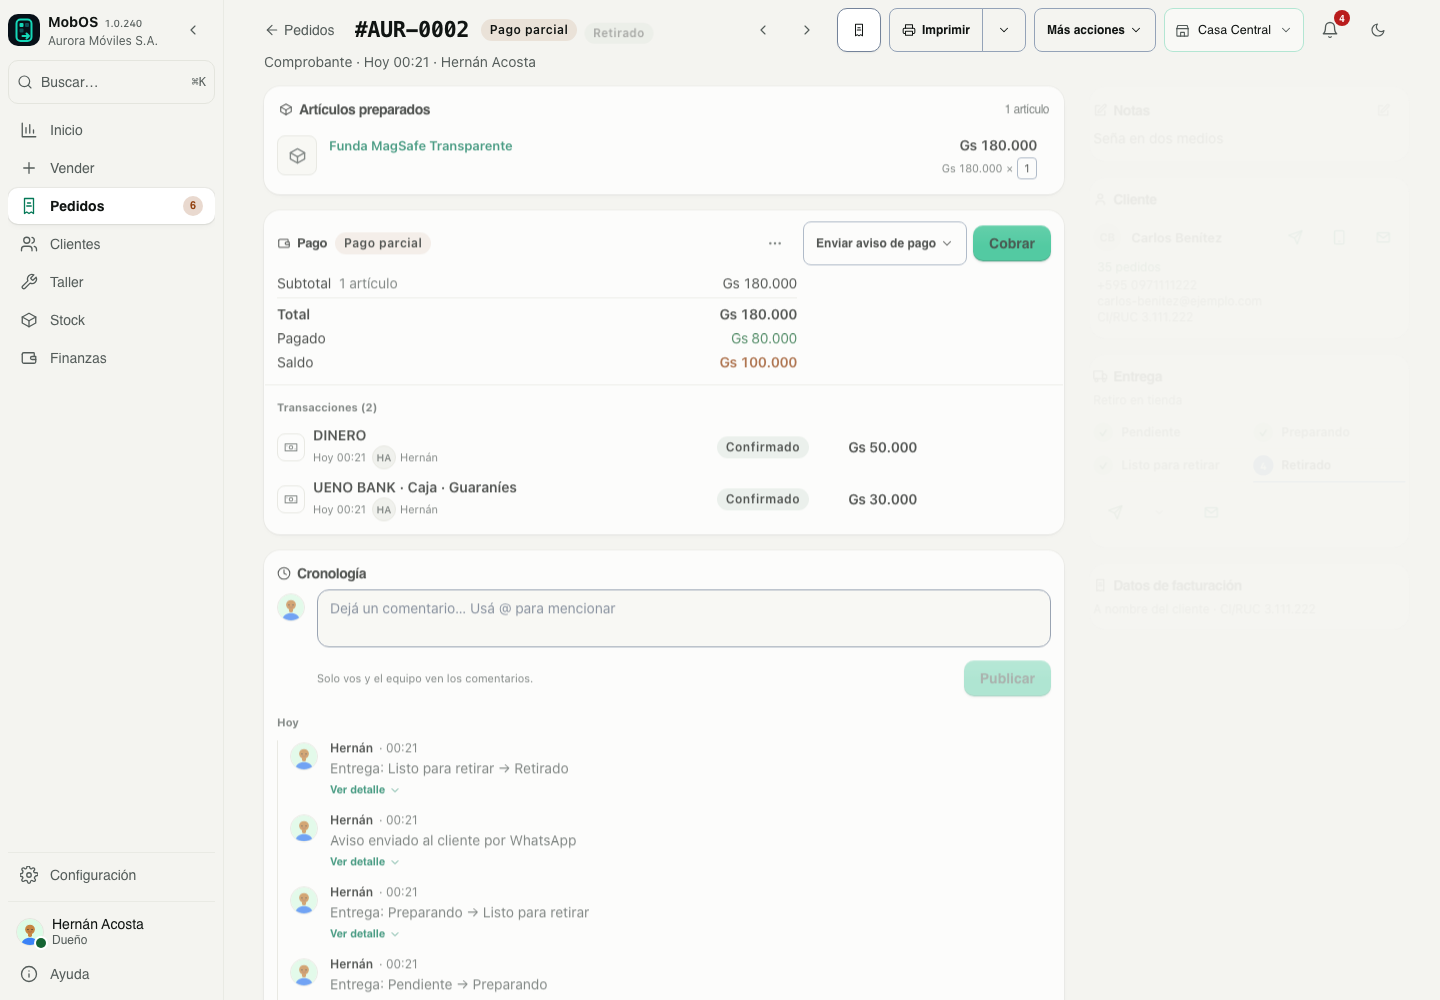
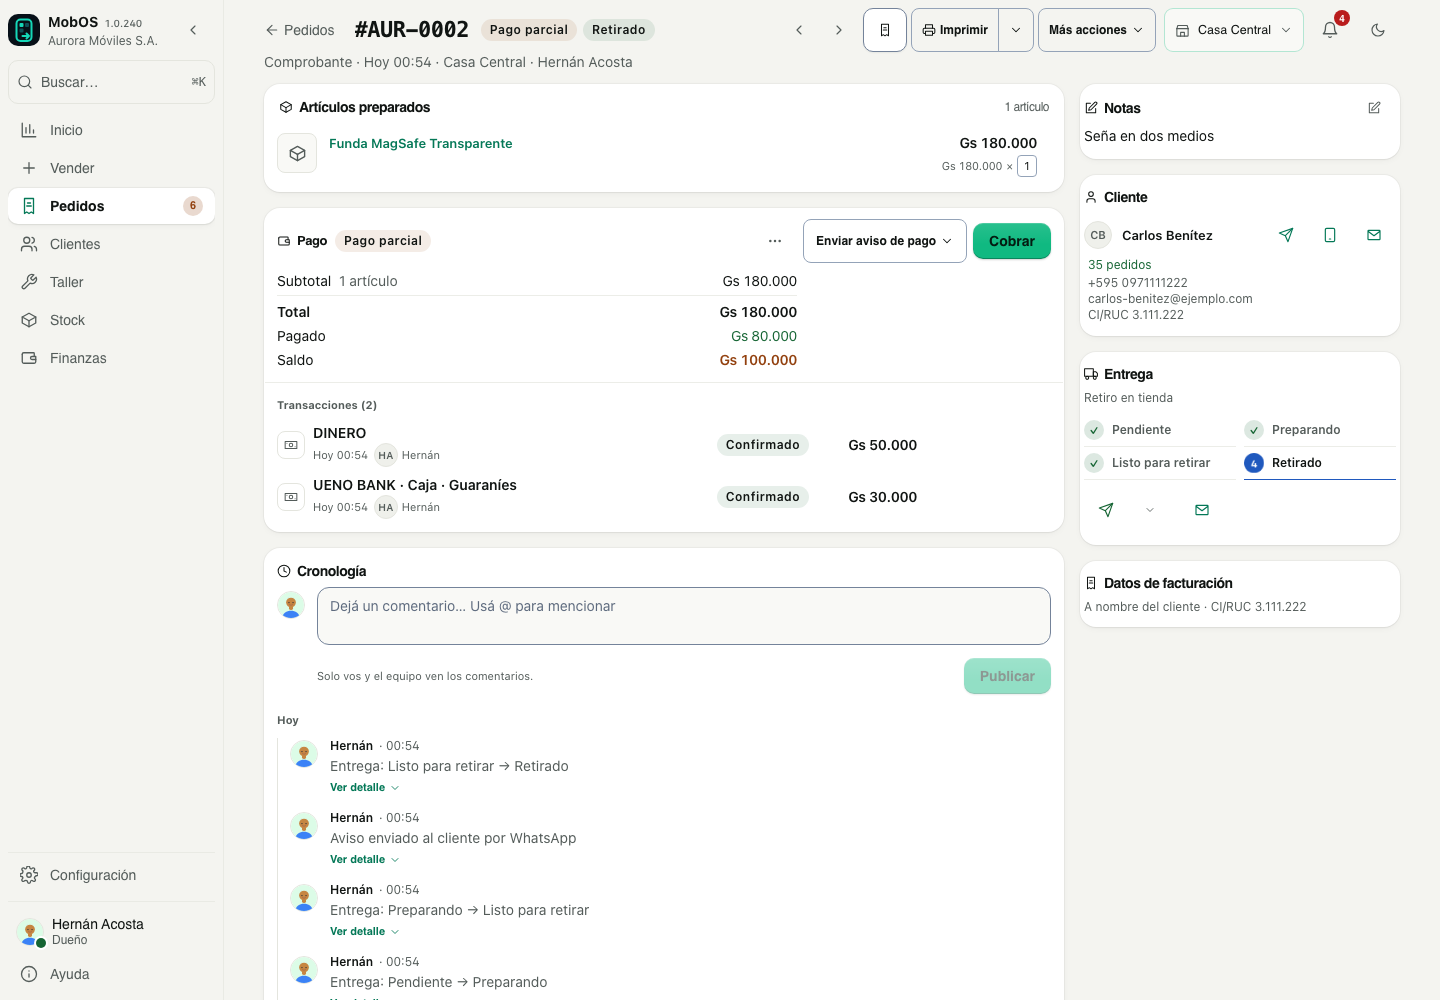
fix(pedidos): subtítulo sin recortes en celular, pruebas de pedidos al nuevo detalle

diff --git a/src/components/ventas/PedidoDetalle.jsx b/src/components/ventas/PedidoDetalle.jsx
@@ -801,8 +801,8 @@ export default function PedidoDetalle({ row, esDemo, customerOrderCount = 0, onC
     const tituloPedido = codigoPedido(order.orderNumber || order.number) || 'Pedido'
     const vendedorNombre = order.seller?.name || order.sellerName || ''
     const vendedorId = order.seller?.id || order.sellerId || ''
+    const tipoComprobante = order.billingDocument ? 'Factura' : 'Comprobante'
     const subtitulo = [
-      order.billingDocument ? 'Factura' : 'Comprobante',
       order.createdAt || order.date ? fechaLegible(order.createdAt || order.date) : '',
       order.branch?.name || (typeof order.sucursal === 'string' ? order.sucursal : '') || sucursal?.nombre,
     ].filter(Boolean)
@@ -829,12 +829,20 @@ export default function PedidoDetalle({ row, esDemo, customerOrderCount = 0, onC
           }
           meta={(
             <span data-testid="pedido-subtitulo">
+              {/* En celular se omite el tipo de comprobante para que el subtítulo entre en una línea. */}
+              <span className="hidden sm:inline">{tipoComprobante} · </span>
               {subtitulo.join(' · ')}
               {vendedorNombre && (
                 <>
-                  {subtitulo.length > 0 ? ' · ' : ''}
+                  {' · '}
                   {puedeVerEquipo && !esDemo && vendedorId
-                    ? <Link to={`/configuracion/equipo?miembro=${encodeURIComponent(vendedorId)}`} state={{ volverA: `${ubicacion.pathname}${ubicacion.search}` }} data-testid="pedido-vendedor-ficha" className="font-semibold text-fono-light hover:underline">{vendedorNombre}</Link>
+                    ? (
+                      <>
+                        {/* En celular el nombre va como texto (un enlace en línea no llega a 44 px); desde tablet abre la ficha. */}
+                        <span className="md:hidden">{vendedorNombre}</span>
+                        <Link to={`/configuracion/equipo?miembro=${encodeURIComponent(vendedorId)}`} state={{ volverA: `${ubicacion.pathname}${ubicacion.search}` }} data-testid="pedido-vendedor-ficha" className="hidden font-semibold text-fono-light hover:underline md:inline">{vendedorNombre}</Link>
+                      </>
+                    )
                     : vendedorNombre}
                 </>
               )}

diff --git a/e2e/qa-148-16-menciones.spec.js b/e2e/qa-148-16-menciones.spec.js
@@ -35,11 +35,10 @@ test('menciones: comentario interno, notificación al mencionado y nada para el 
   const filaSeed = page.getByTestId('pedido-fila').filter({ hasText: seedOrder.orderNumber }).first()
   await expect(filaSeed).toBeVisible({ timeout: 15000 })
   await filaSeed.click()
-  await page.getByRole('button', { name: /Cronología/ }).click()
   const caja = page.getByLabel('Comentario del pedido')
   await expect(caja).toBeVisible()
   await caja.fill(comentario)
-  const botonComentar = page.getByRole('button', { name: 'Comentar' })
+  const botonComentar = page.getByRole('button', { name: 'Publicar' })
   // La cronología se refresca en vivo: si el formulario se re-monta con el
   // borrador perdido, se vuelve a escribir hasta que el botón habilite.
   await expect(async () => {
@@ -48,7 +47,7 @@ test('menciones: comentario interno, notificación al mencionado y nada para el 
   }).toPass({ timeout: 15000 })
   await botonComentar.click()
   await expect(page.getByText(comentario).first()).toBeVisible({ timeout: 15000 })
-  await expect(page.getByText('Solo tú y otros empleados pueden ver los comentarios.')).toBeVisible()
+  await expect(page.getByText('Solo vos y el equipo ven los comentarios.')).toBeVisible()
   await page.screenshot({ path: `${SALIDA}/01-comentario-con-mencion.png` })
 
   // (2) El mencionado ve la novedad en su campana (sesión del vendedor).
@@ -78,7 +77,7 @@ test('menciones: comentario interno, notificación al mencionado y nada para el 
   await publica.goto(`/pedido/${seedOrder.publicToken}`)
   await expect(publica.locator('h1').first()).toBeVisible({ timeout: 20000 })
   await expect(publica.getByText(new RegExp(`Revisar stock ${marca}`))).toHaveCount(0)
-  await expect(publica.getByText(/Solo tú y otros empleados/)).toHaveCount(0)
+  await expect(publica.getByText(/Solo (tú y otros empleados|vos y el equipo)/)).toHaveCount(0)
   await publica.screenshot({ path: `${SALIDA}/03-publico-sin-comentarios.png` })
   await cliente.close()
   await vendedor.close()

diff --git a/e2e/pos-pedidos.spec.js b/e2e/pos-pedidos.spec.js
@@ -4,6 +4,7 @@ import { readFileSync } from 'node:fs'
 import { execFileSync } from 'node:child_process'
 import { codigoPedido } from '../src/utils/pedido.js'
 import { SEED } from './helpers/seed-data.js'
+import { abrirVistaPreviaComprobante } from './helpers/pedido-imprimir.js'
 
 const API = `http://localhost:${process.env.MOBOS_E2E_API_PORT || '3001'}`
 
@@ -83,7 +84,7 @@ test('pedidos: el comprobante ofrece 80 mm y A4; el 58 mm solo con el interrupto
   await page.goto('/pedidos')
   await page.getByTestId('pedido-fila').first().click()
   await expect(page.getByText('Artículos preparados')).toBeVisible()
-  await page.getByRole('button', { name: 'Imprimir comprobante' }).click()
+  await abrirVistaPreviaComprobante(page)
 
   const formato = page.getByRole('radiogroup', { name: 'Formato de impresión' })
   await expect(formato).toBeVisible()
@@ -127,7 +128,7 @@ test('pedidos: el comprobante se descarga como imagen PNG', async ({ page }) => 
   await page.goto('/pedidos')
   await page.getByTestId('pedido-fila').first().click()
   await expect(page.getByText('Artículos preparados')).toBeVisible()
-  await page.getByRole('button', { name: 'Imprimir comprobante' }).click()
+  await abrirVistaPreviaComprobante(page)
   await expect(page.locator('iframe[title="Vista previa del comprobante"]')).toBeVisible()
 
   const [descarga] = await Promise.all([
@@ -166,7 +167,6 @@ test('pedidos: la cronología muestra al vendedor que creó el pedido', async ({
   await expect(page.getByText('Artículos preparados')).toBeVisible()
 
   // La cronología arranca plegada (#164): se abre para leer los movimientos.
-  await page.getByRole('button', { name: /Cronología/ }).click()
   const creado = page.locator('article').filter({ hasText: 'Pedido creado' }).first()
   await expect(creado).toBeVisible()
   await expect(creado).not.toContainText('Sistema')

diff --git a/src/components/app/RecordHeader.jsx b/src/components/app/RecordHeader.jsx
@@ -32,7 +32,7 @@ export default function RecordHeader({ backLabel, onBack, title, mono = false, c
       </button>
       <h1 className={`min-w-0 truncate text-[22px] font-semibold leading-7 tracking-tight ${mono ? 'font-mono' : ''}`}>{title}</h1>
       {chip}
-      {meta && <p data-testid="record-header-meta" className={`order-last min-w-0 basis-full truncate pb-1 text-sm text-mute ${metaEnLinea ? '' : 'sm:order-none sm:basis-auto sm:pb-0'}`}>{meta}</p>}
+      {meta && <p data-testid="record-header-meta" className={`order-last min-w-0 basis-full pb-1 text-sm text-mute ${metaEnLinea ? 'break-words' : 'truncate sm:order-none sm:basis-auto sm:pb-0'}`}>{meta}</p>}
       {actions && <div className="ml-auto flex min-h-11 max-w-full shrink-0 flex-wrap items-center justify-end gap-x-2">{actions}</div>}
     </div>,
     ctx.slot,

diff --git a/e2e/documentos-no-fiscales.spec.js b/e2e/documentos-no-fiscales.spec.js
@@ -70,7 +70,8 @@ test('la nota de entrega de un pedido sale por el agente con leyenda no fiscal',
   const texto = textoDelTicket(capturados[0])
   expect(texto).toContain('Nota de entrega')
   expect(texto).toContain('Documento no fiscal')
-  expect(texto).toContain(orden.orderNumber)
+  // El ticket imprime el código sin el «#» del número interno (MOB-#0009 → MOB-0009).
+  expect(texto).toContain(String(orden.orderNumber).replace('#', ''))
 })
 
 test('la remisión interna de un traslado sale por el agente con firmas', async ({ page }) => {
